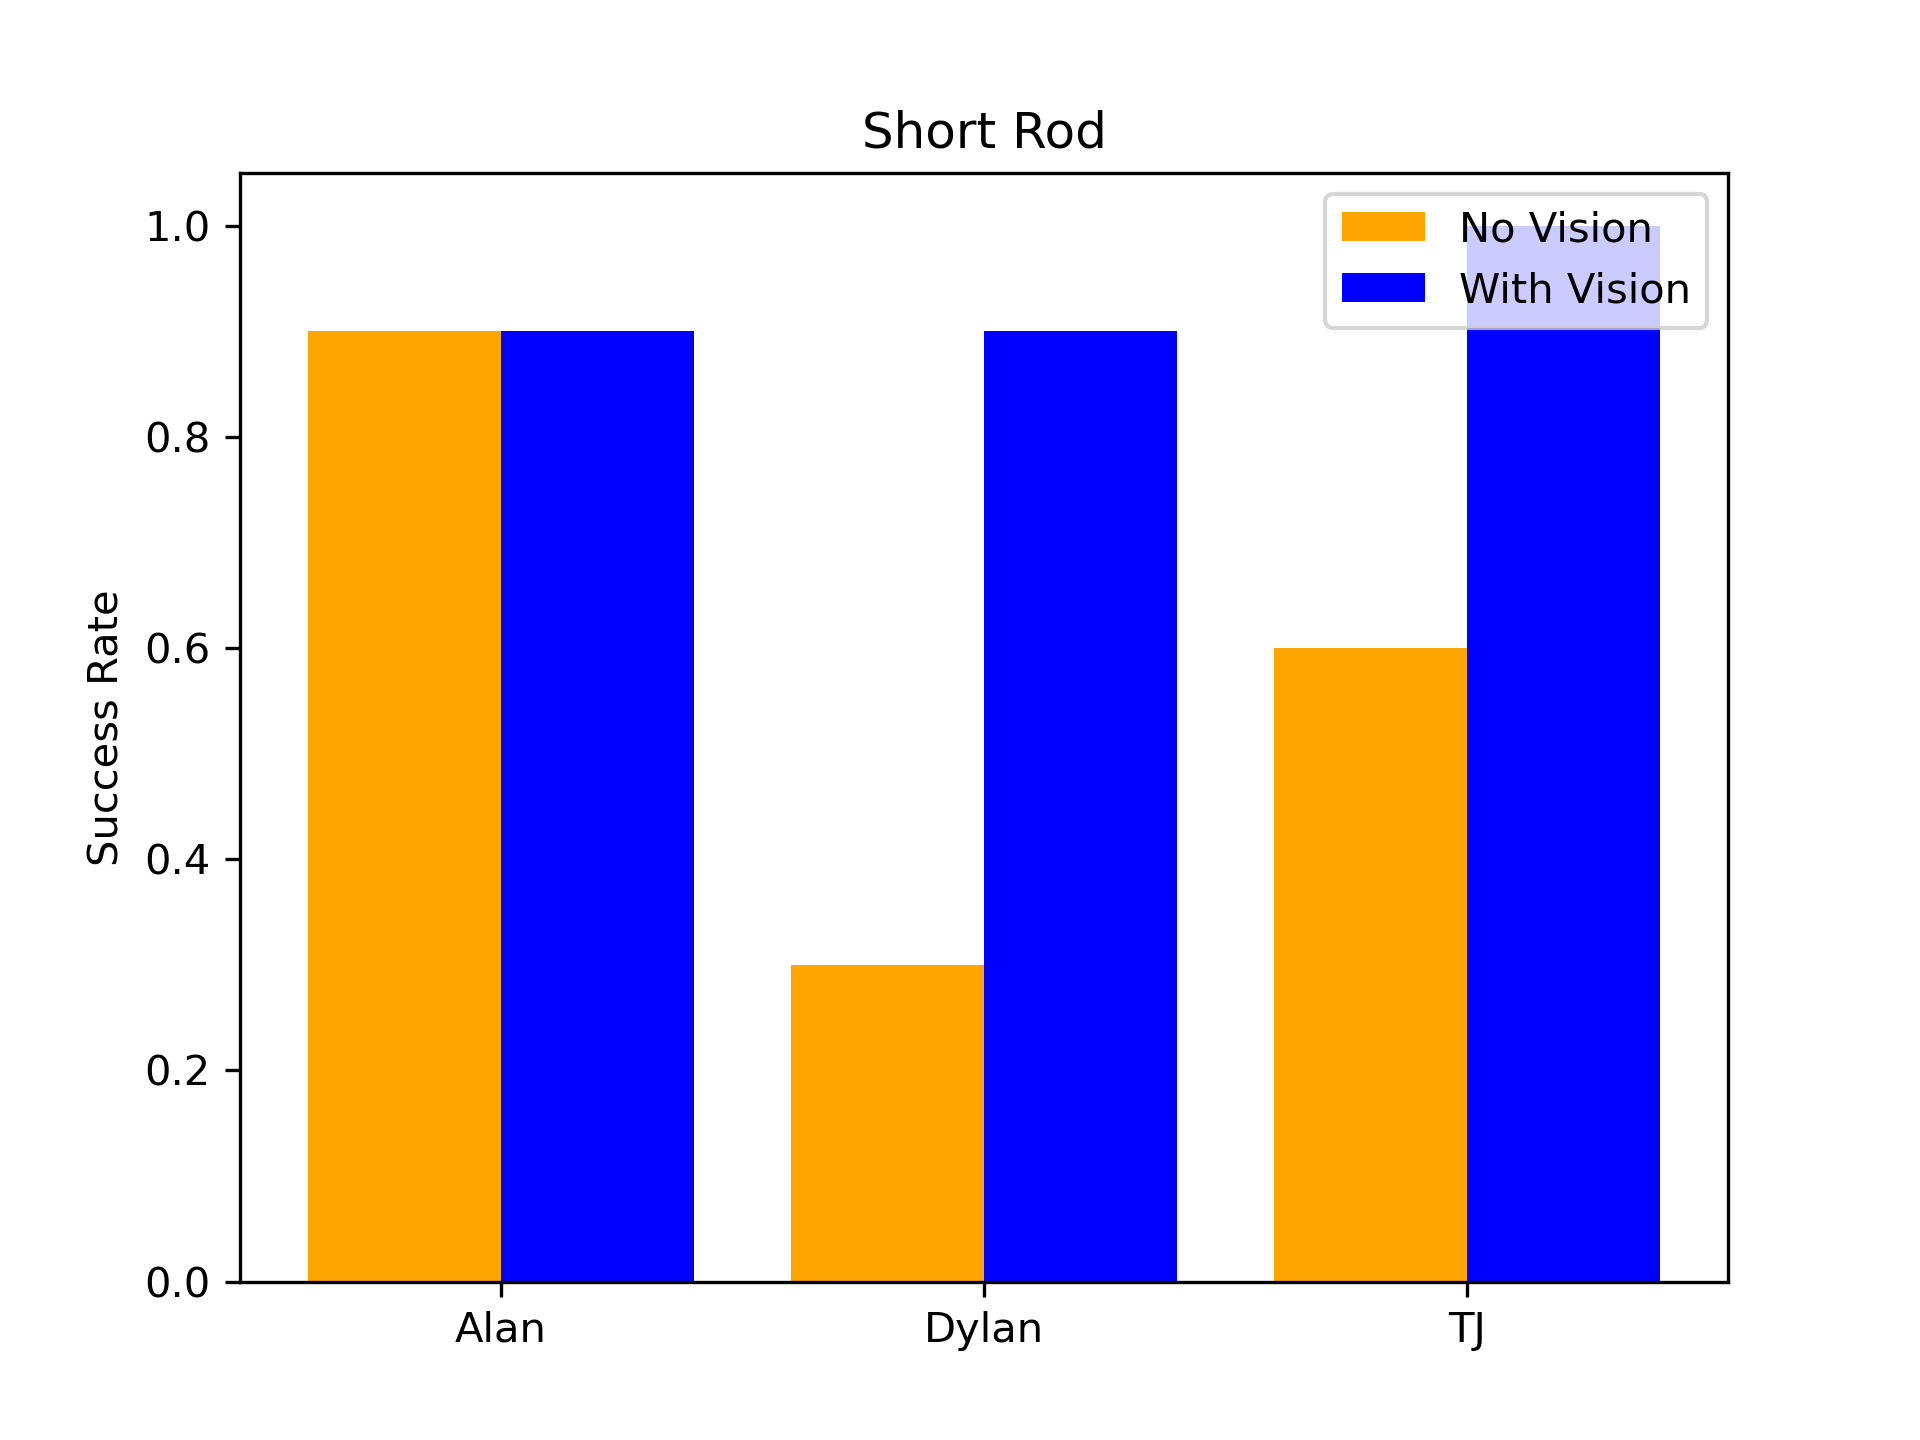
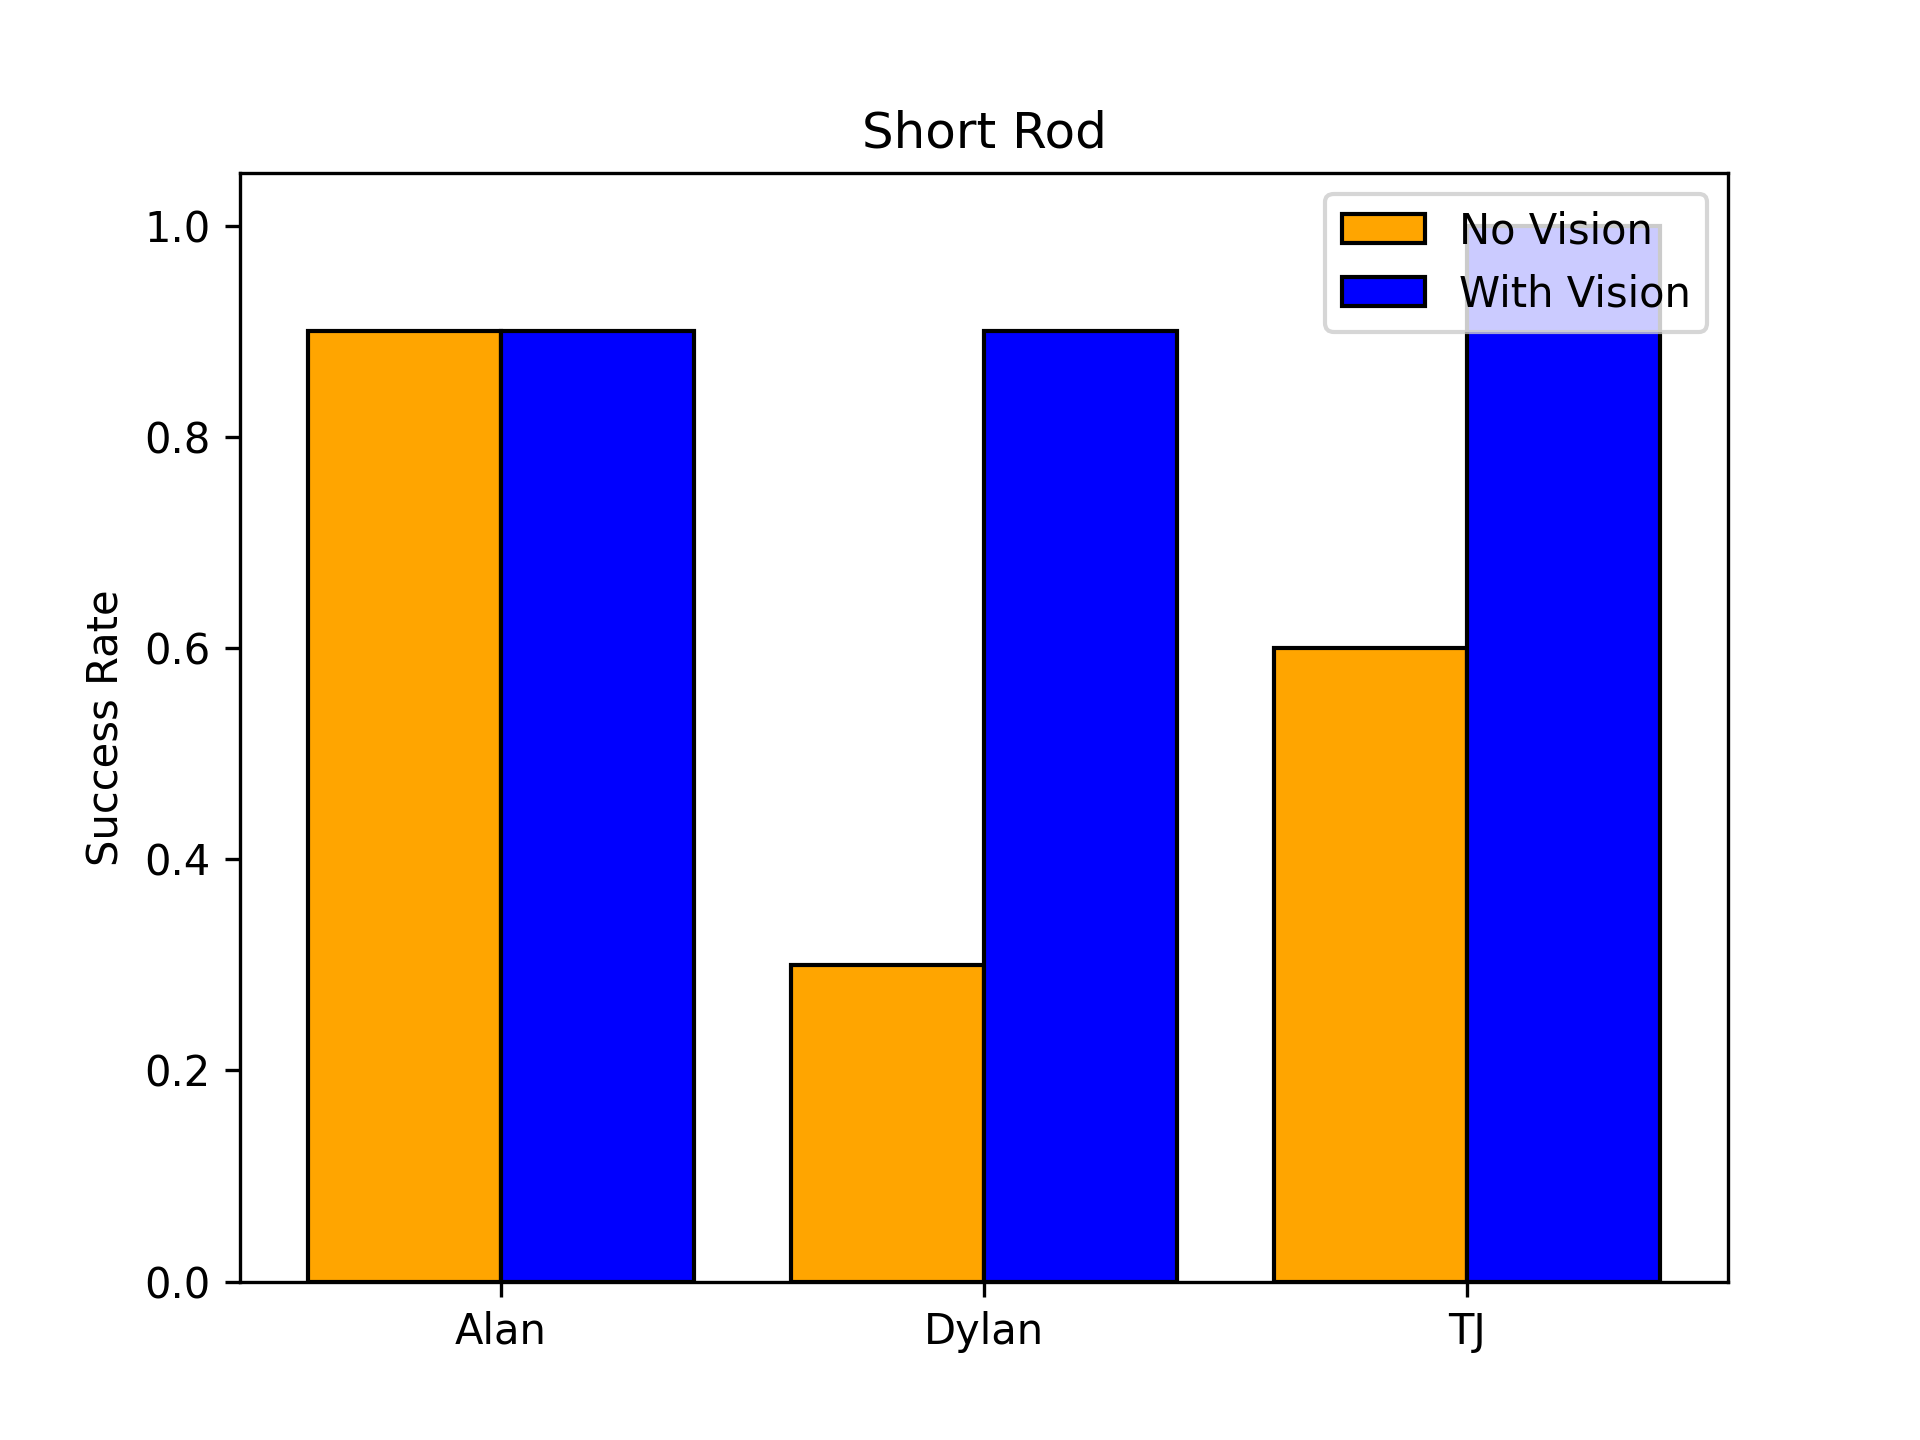
add performance figuires

diff --git a/prcoess_data.py b/prcoess_data.py
@@ -87,17 +87,24 @@ def extract_info():
             if flag:
                 succ_rate += 1
         ttime = []
+        length=[]
         for i in range(len(d['time_elapsed'])):
             if d['within_time_limit'][i]:
                 ttime.append(d['time_elapsed'][i])
-        d['time_elapsed'] = ttime
-        print(len(d['time_elapsed']))
-        std_time = np.std(np.array(d['time_elapsed']))
-        avg_time = np.mean(np.array(d['time_elapsed']))
+                length.append(np.linalg.norm(np.array(d['targets'][i]-d['pos'][i][0])))
+
+
+
+        std_time = np.std(np.array(ttime))
+        avg_time = np.mean(np.array(ttime))
+        avg_speed = np.mean(np.array(length)) / np.mean(np.array(ttime))
         succ_rate /= len(d['within_time_limit'])
+
+        info[name + "_avg_speed"] = avg_speed
         info[name + "_avg_time"] = avg_time
         info[name + "_std_time"] = std_time
         info[name + "_success_rate"] = succ_rate
+
     return info
 
 
@@ -105,116 +112,70 @@ def bar_chart():
     info = extract_info()
     persons = ["Alan", "Dylan", "TJ"]
     objects = ["long_rod", "short_rod", "box", "sponge"]
-    object_names = ["Long Rod", "Short Rod", "Box", "Sponge Bob"]
+    object_names = ["Long Rod", "Short Rod", "Box", "Ball"]
     sr_b = [[0] * 3 for _ in range(4)]
     sr_v = [[0] * 3 for _ in range(4)]
     at_b = [[0] * 3 for _ in range(4)]
     at_v = [[0] * 3 for _ in range(4)]
-    std_t_b = [[0] * 3 for _ in range(4)]
-    std_t_v = [[0] * 3 for _ in range(4)]
+    st_b = [[0] * 3 for _ in range(4)]
+    st_v = [[0] * 3 for _ in range(4)]
+    as_b = [[0] * 3 for _ in range(4)]
+    as_v = [[0] * 3 for _ in range(4)]
+
+    def find_indices(_key):
+        _idx1=-1
+        _idx2=-1
+        for _i in range(4):
+            if _key.find(objects[_i]) != -1:
+                _idx1 = _i
+                break
+        for _i in range(3):
+            if _key.find(persons[_i]) != -1:
+                _idx2 = _i
+                break
+        return _idx1, _idx2
+
+    def collect_info(vd, bd, _info, _key):
+        if _key.find("vision") != -1:
+            idx1, idx2 = find_indices(_key)
+            vd[idx1][idx2]=_info[_key]
+        else:
+            idx1, idx2 = find_indices(_key)
+            bd[idx1][idx2] = _info[_key]
+
     for k in info.keys():
         # sr
         if k.find("success_rate") != -1:
-            if k.find("vision") != -1:
-                idx1 = -1
-                idx2 = -1
-                for i in range(3):
-                    if k.find(persons[i]) != -1:
-                        idx2 = i
-                        break
-                for j in range(4):
-                    if k.find(objects[j]) != -1:
-                        idx1 = j
-                        break
-                sr_v[idx1][idx2] = info[k]
-            else:
-                idx1 = -1
-                idx2 = -1
-                for i in range(3):
-                    if k.find(persons[i]) != -1:
-                        idx2 = i
-                        break
-                for j in range(4):
-                    if k.find(objects[j]) != -1:
-                        idx1 = j
-                        break
-                sr_b[idx1][idx2] = info[k]
+            collect_info(sr_v, sr_b, info, k)
         # at
         elif k.find("avg_time") != -1:
-            if k.find("vision") != -1:
-                idx1 = -1
-                idx2 = -1
-                for i in range(3):
-                    if k.find(persons[i]) != -1:
-                        idx2 = i
-                        break
-                for j in range(4):
-                    if k.find(objects[j]) != -1:
-                        idx1 = j
-                        break
-                at_v[idx1][idx2] = info[k]
-            else:
-                idx1 = -1
-                idx2 = -1
-                for i in range(3):
-                    if k.find(persons[i]) != -1:
-                        idx2 = i
-                        break
-                for j in range(4):
-                    if k.find(objects[j]) != -1:
-                        idx1 = j
-                        break
-                at_b[idx1][idx2] = info[k]
+            collect_info(at_v, at_b, info, k)
         elif k.find("std_time") != -1:
-            if k.find("vision") != -1:
-                idx1 = -1
-                idx2 = -1
-                for i in range(3):
-                    if k.find(persons[i]) != -1:
-                        idx2 = i
-                        break
-                for j in range(4):
-                    if k.find(objects[j]) != -1:
-                        idx1 = j
-                        break
-                std_t_v[idx1][idx2] = info[k]
-            else:
-                idx1 = -1
-                idx2 = -1
-                for i in range(3):
-                    if k.find(persons[i]) != -1:
-                        idx2 = i
-                        break
-                for j in range(4):
-                    if k.find(objects[j]) != -1:
-                        idx1 = j
-                        break
-                std_t_b[idx1][idx2] = info[k]
+            collect_info(st_v, st_b, info, k)
+        elif k.find("avg_speed")!=-1:
+            collect_info(as_v, as_b, info, k)
 
     width = 0.4
     x = np.arange(len(persons))
     plt.figure(dpi=300)
-    for i in range(4):
-        plt.clf()
-        plt.title(object_names[i])
-        plt.ylabel("Success Rate")
-        plt.bar(x - width / 2, sr_b[i], width, label='No Vision', color='orange')
-        plt.bar(x + width / 2, sr_v[i], width, label='With Vision', color='blue')
-        plt.xticks(x, persons)
-        plt.legend(loc='upper right')
-        plt.savefig(f"./pics/{object_names[i]} Success.png")
 
-    for i in range(4):
-        plt.clf()
-        plt.title(object_names[i])
-        plt.ylabel("Average Time")
-        plt.bar(x - width / 2, at_b[i], width, label='No Vision', color='orange', yerr=std_t_b[i],
-                capsize=4, edgecolor='black')
-        plt.bar(x + width / 2, at_v[i], width, label='With Vision', color='blue', yerr=std_t_v[i],
-                capsize=4, edgecolor='black')
-        plt.xticks(x, persons)
-        plt.legend(loc='upper right')
-        plt.savefig(f"./pics/{object_names[i]} Time.png")
+    def plot_std_bar(ylabel, file_name,avg_v, avg_b, std_v, std_b):
+        for _i in range(4):
+            plt.clf()
+            plt.title(object_names[_i])
+            plt.ylabel(ylabel)
+            plt.bar(x - width / 2, avg_b[_i], width, label='No Vision', color='orange', yerr=std_b[_i],
+                    capsize=4, edgecolor='black')
+            plt.bar(x + width / 2, avg_v[_i], width, label='With Vision', color='blue', yerr=std_v[_i],
+                    capsize=4, edgecolor='black')
+            plt.xticks(x, persons)
+            plt.legend(loc='upper right')
+            plt.savefig(f"./pics/{object_names[_i]} {file_name}.png")
+
+    plot_std_bar("Average Time", "Time", at_v, at_b, st_v, st_b)
+    plot_std_bar("Performance", "Performance", as_v, as_b, [None]*4, [None]*4)
+    plot_std_bar("Success Rate", "Success", sr_v, sr_b, [None] * 4, [None] * 4)
+
 
 
 if __name__ == "__main__":
